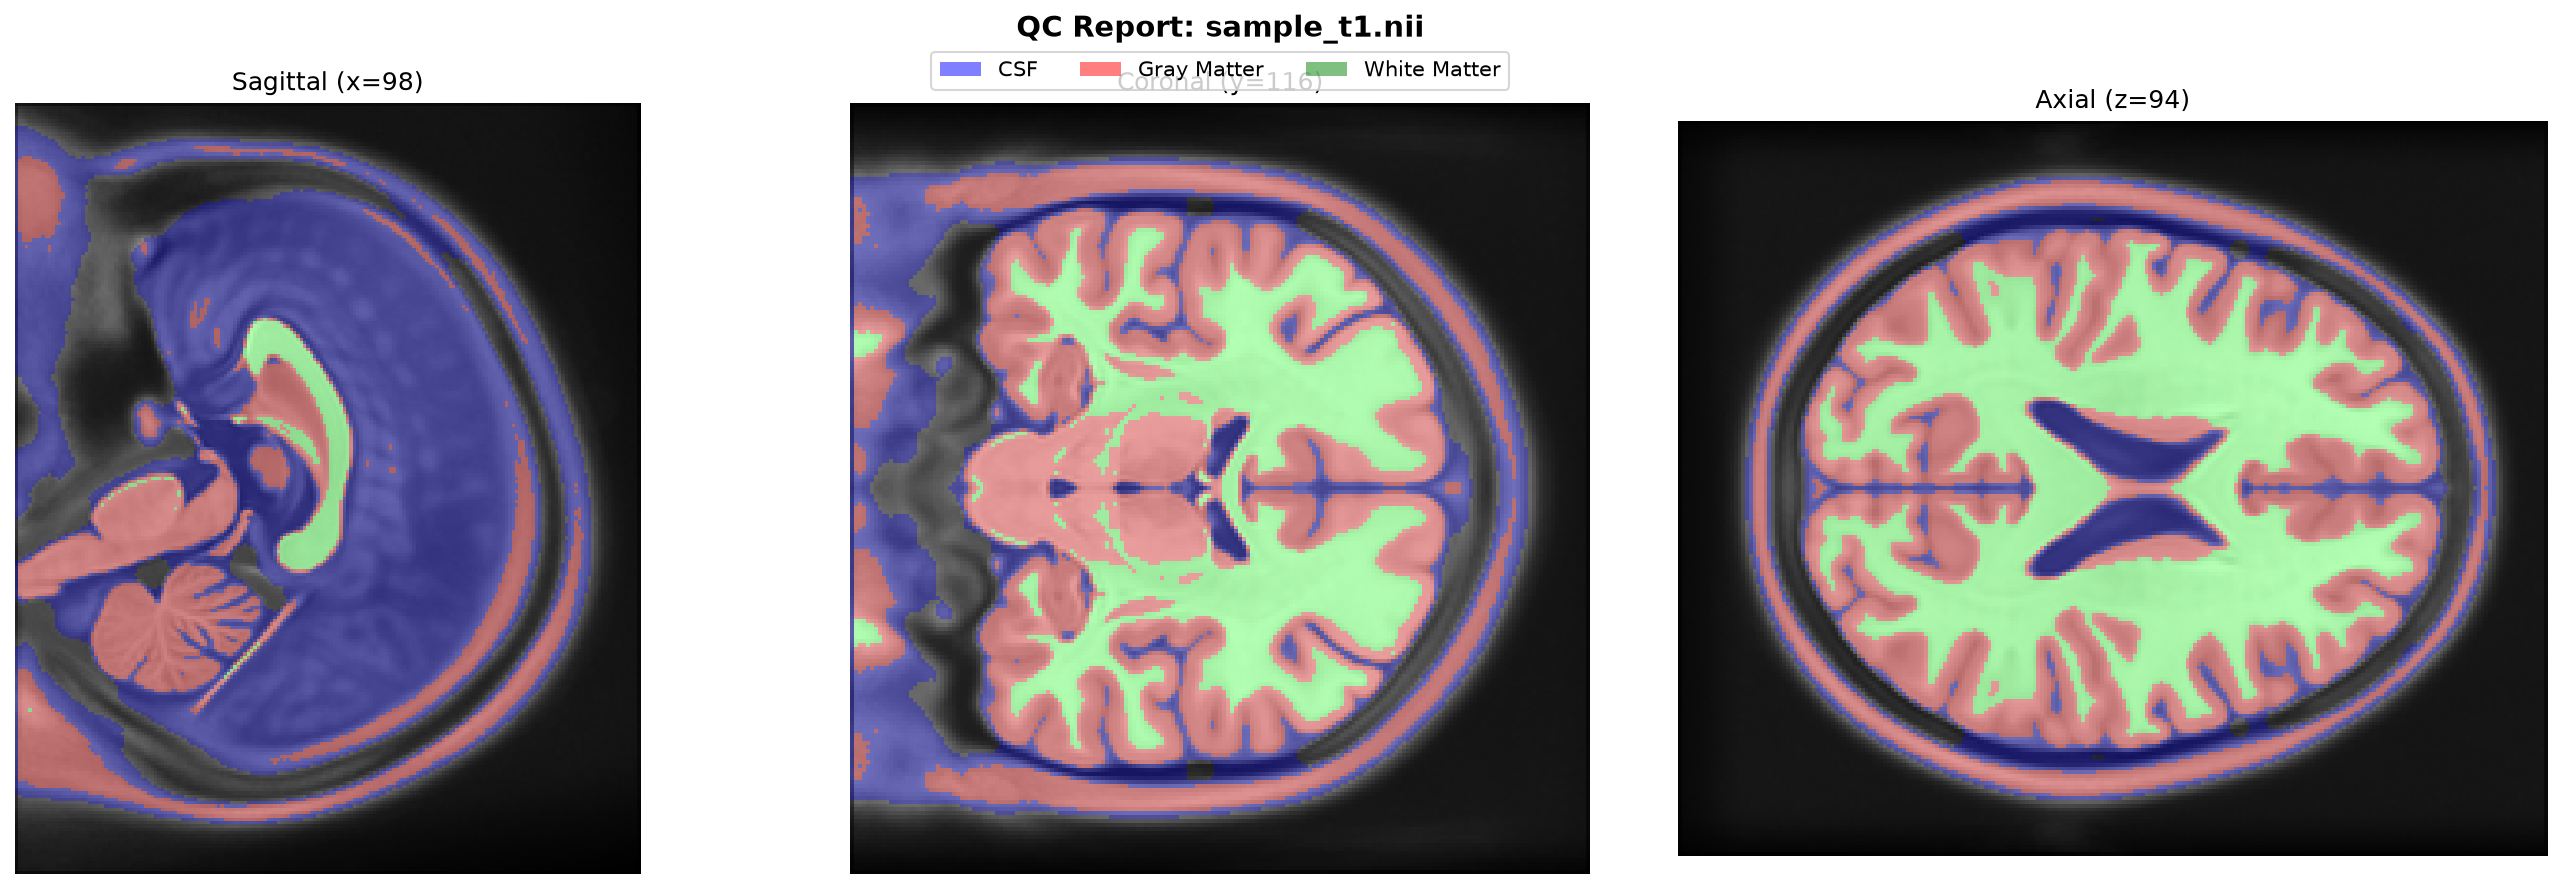
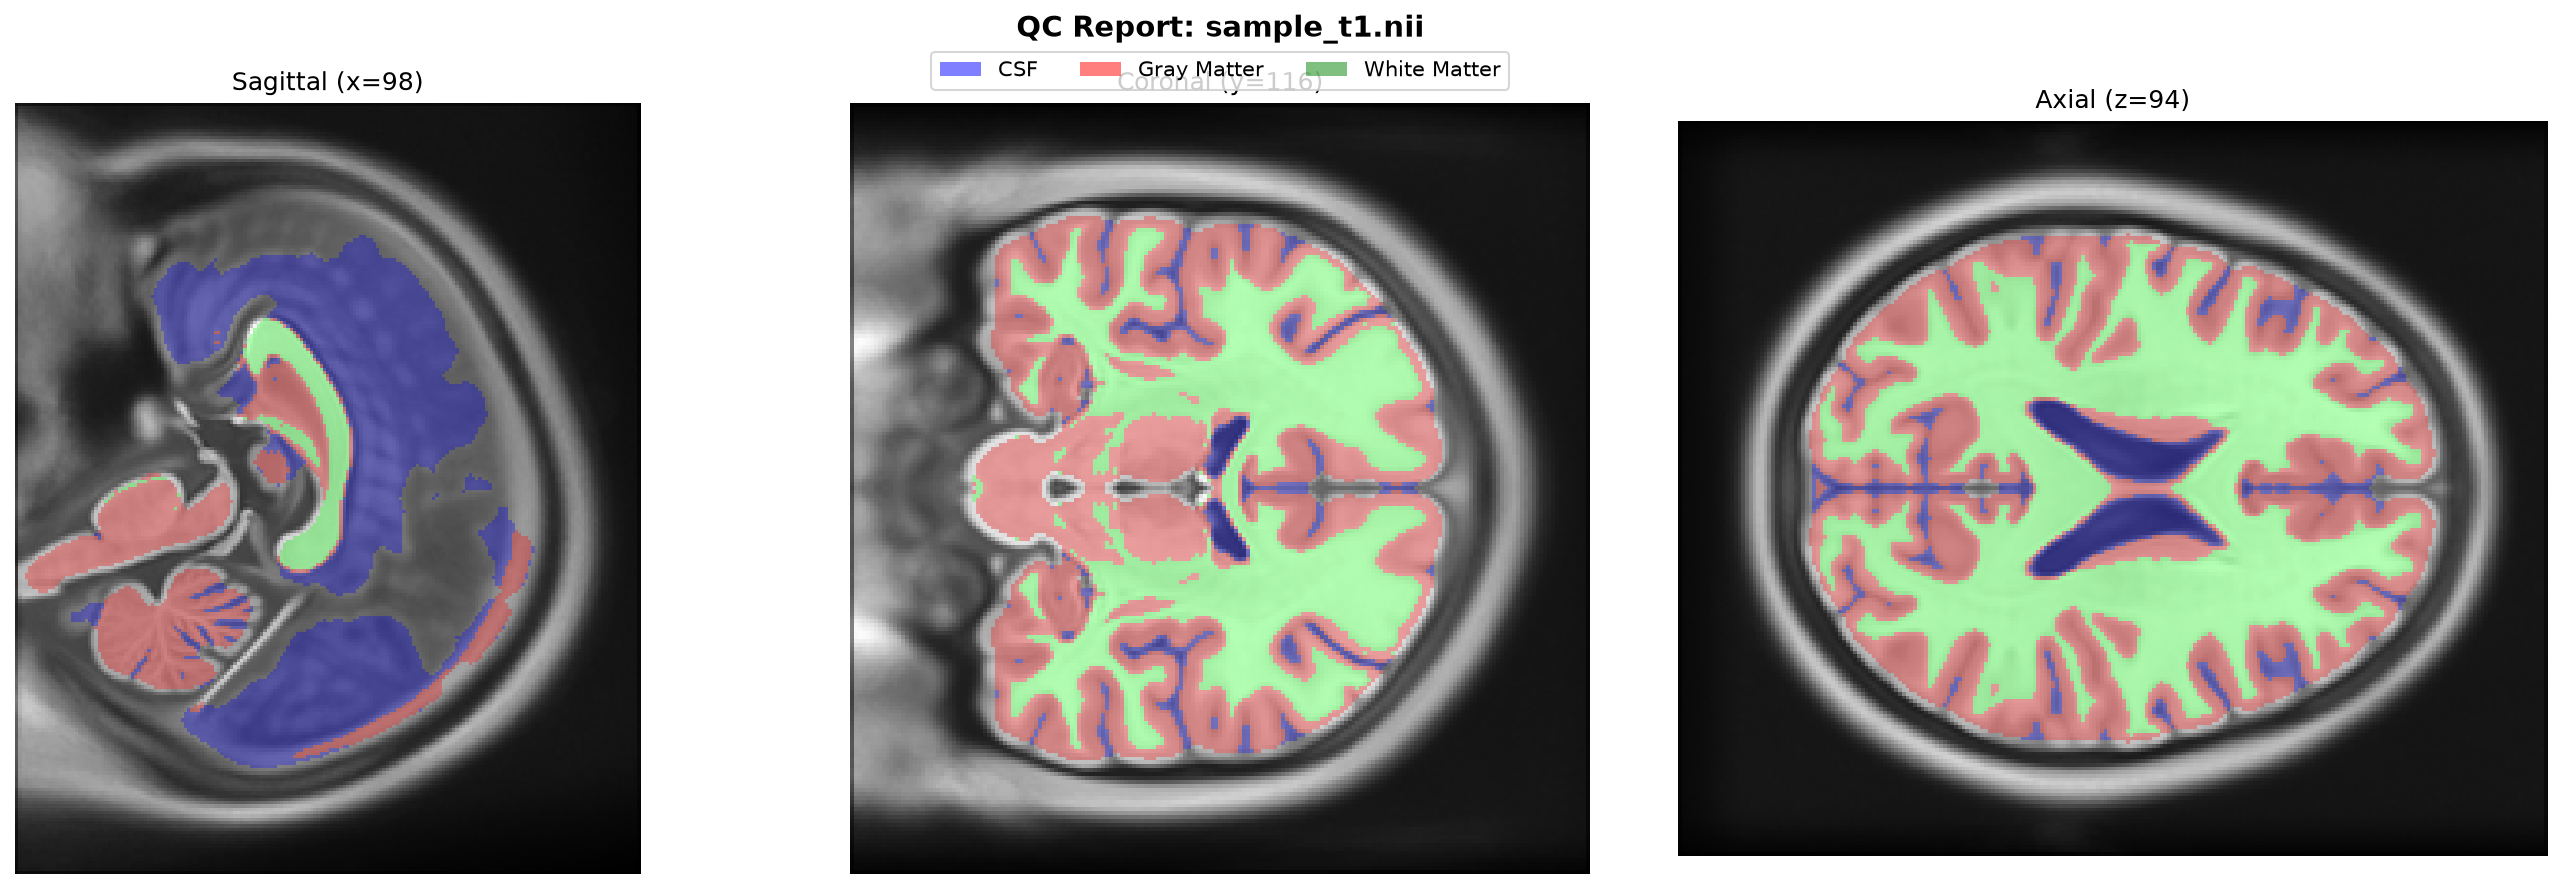
got rid of non-brain that ws being included

diff --git a/pipeline.py b/pipeline.py
@@ -106,7 +106,8 @@ class MRIPipeline:
         
         if method == "nilearn":
             # Use nilearn's brain mask computation
-            self.brain_mask = masking.compute_brain_mask(self.img, threshold=0.5)
+            mask_img = masking.compute_brain_mask(self.img, threshold=0.5)
+            self.brain_mask = mask_img.get_fdata().astype(np.float64)
         else:
             # Use morphological operations (pure Python)
             self.brain_mask = self._morphological_skull_strip()
@@ -124,6 +125,13 @@ class MRIPipeline:
         """
         Perform skull-stripping using intensity thresholding and morphological operations.
         
+        This method uses a multi-stage approach to eliminate extra-axial tissue (scalp, skull, neck):
+        1. Initial threshold to separate head from background
+        2. Aggressive erosion to remove skull/scalp layers
+        3. Largest connected component extraction to isolate brain
+        4. Conservative dilation to restore brain boundaries
+        5. Hole filling to ensure solid brain mask
+        
         Returns
         -------
         numpy.ndarray
@@ -134,29 +142,43 @@ class MRIPipeline:
         # Normalize intensity
         data_norm = (data - data.min()) / (data.max() - data.min())
         
-        # Initial threshold (Otsu)
-        threshold = filters.threshold_otsu(data_norm)
+        # Initial threshold using Otsu on non-zero voxels to separate head from background
+        non_zero_voxels = data_norm[data_norm > 0]
+        if len(non_zero_voxels) > 0:
+            threshold = filters.threshold_otsu(non_zero_voxels)
+        else:
+            threshold = filters.threshold_otsu(data_norm)
+        
         binary = data_norm > threshold
         
-        # 3D morphological operations
-        # Remove small objects
-        binary = morphology.remove_small_objects(binary, max_size=1000)
+        # Remove very small objects (noise)
+        binary = morphology.remove_small_objects(binary, max_size=100)
         
-        # Fill holes
+        # Fill holes in the initial mask
         binary = ndimage.binary_fill_holes(binary)
         
-        # Morphological closing to smooth
-        selem = morphology.ball(3)
-        binary = morphology.closing(binary, selem)
+        # Aggressive erosion to strip skull and scalp layers
+        # Use larger structuring element (radius 6) to remove exterior head layers
+        eroded = morphology.erosion(binary, morphology.ball(6))
         
-        binary = morphology.opening(binary, morphology.ball(2))
-        
-        # Find largest connected component (the brain)
-        labeled, num_features = ndimage.label(binary)
+        # Find largest connected component (the brain core)
+        labeled, num_features = ndimage.label(eroded)
         if num_features > 0:
-            sizes = ndimage.sum(binary, labeled, range(num_features + 1))
+            sizes = ndimage.sum(eroded, labeled, range(num_features + 1))
             max_label = sizes.argmax()
-            binary = labeled == max_label
+            brain_core = labeled == max_label
+        else:
+            brain_core = eroded
+        
+        # Conservative dilation to restore brain boundaries (smaller than erosion)
+        # This ensures we don't over-dilate back into skull/scalp
+        dilated = morphology.dilation(brain_core, morphology.ball(4))
+        
+        # Final hole filling to ensure solid brain mask
+        binary = ndimage.binary_fill_holes(dilated)
+        
+        # Light closing to smooth the mask
+        binary = morphology.closing(binary, morphology.ball(2))
         
         return binary.astype(np.float64)
     

diff --git a/README.md b/README.md
@@ -184,8 +184,8 @@ CEREBRO MRI PIPELINE - Processing Start
 
 Performing skull-stripping using morphological method...
 Brain mask shape: (197, 233, 189)
-Brain voxels: 3147206
-Brain volume: 3147.21 cm³
+Brain voxels: 1651889
+Brain volume: 1651.89 cm³
 
 Performing tissue segmentation using gmm method...
 Segmentation complete. Shape: (197, 233, 189)
@@ -193,12 +193,12 @@ Segmentation complete. Shape: (197, 233, 189)
 Computing volumetric metrics...
 
 --- Volumetric Metrics ---
-Total Brain Volume: 3147.21 cm³
-CSF Volume: 965.22 cm³ (965221 voxels)
-Gray Matter Volume: 1586.99 cm³ (1586987 voxels)
-White Matter Volume: 595.00 cm³ (594998 voxels)
-GM/WM Ratio: 2.6672
-GM/CSF Ratio: 1.6442
+Total Brain Volume: 1651.89 cm³
+CSF Volume: 150.45 cm³ (150449 voxels)
+Gray Matter Volume: 926.69 cm³ (926689 voxels)
+White Matter Volume: 574.75 cm³ (574751 voxels)
+GM/WM Ratio: 1.6123
+GM/CSF Ratio: 6.1595
 
 Generating QC plots...
 QC plot saved to: outputs\sample_t1.nii_qc.png
